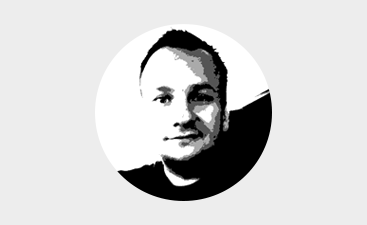
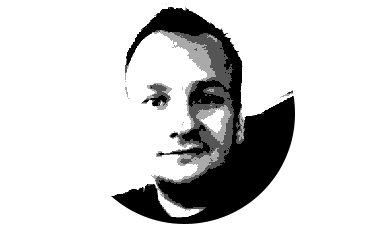
Additional components
More portfolio items, skills section and updates profile image

Changed region(s): [[0.2997, 0.0311, 0.8093, 0.9956]]

diff --git a/index.html b/index.html
@@ -15,13 +15,19 @@
       <ul>
         <li><a href="#">Home</a></li>
         <li><a href="#portfolio">Portfolio</a></li>
+        <li><a href="#skills">Skills</a></li>
         <li><a href="#contact">Contact</a></li>
       </ul>
     </nav>
 
     <header class="main-header clearfix">
       <img class="header-image" src="images/responsive-layout-profile.png" alt="Photo of Andy Stoica" />
-      <p>Hi! I'm a front end developer who loves responsive design and css. I recently finished learning front-end web development at Treehouse and am excited to put all my skills to use!</p>
+      <p>
+        Like every good story, mine started 30 years ago when I experienced computer generated graphics for the first time. It was a captivating moment that became an obsession and dominated my life ever since.
+      </p>
+      <p>
+        Humbled by daily technology advances, as my journey continues I feel priviledged to deliver my partners and clients the very best web technology has to offer.
+      </p>
     </header>
 
     <main class="main-content">
@@ -80,6 +86,57 @@
           </p>
           </a>
         </div>
+
+        <div class="portfolio-unit">
+          <a href="#">
+          <img src="images/portfolio-8.png" alt="Video channel" />
+          <h3>Youtube channel</h3>
+          <p>
+            Beutiful aerial imagery captured around the world mixed in with happy ambiental sountracks.
+          </p>
+          </a>
+        </div>
+        <div class="portfolio-unit">
+          <a href="#">
+          <img src="images/portfolio-7.png" alt="Multimedia" />
+          <h3>Multimedia</h3>
+          <p>
+            A picture can say a thousands words but a video can say more than words can ever describe.
+          </p>
+          </a>
+        </div>
+        <div class="portfolio-unit">
+          <a href="#">
+          <img src="images/portfolio-9.png" alt="Web App" />
+          <h3>Web App</h3>
+          <p>
+            Web app developed using cutting edge technology for the fastest growing tech enviroment.
+          </p>
+          </a>
+        </div>
+      </section>
+
+      <section class="skills-section clearfix" id="skills">
+        <h2>Skills</h2>
+        <p>
+          Mastering the art of building scallable web application and delivering beautifully crafted user interfaces are my ultimate goals. These are some of the areas of high interest:
+        </p>
+        <ul class="skill-set">
+          <li>HTML</li>
+          <li>CSS</li>
+          <li>SASS</li>
+          <li>JavaScript</li>
+          <li>JQuery</li>
+          <li>AngularJS</li>
+          <li>Node.js</li>
+          <li>MongoDB</li>
+          <li>PHP</li>
+          <li>MySQL</li>
+          <li>JAVA</li>
+        </ul>
+        <p>
+          <em>"Only one who devotes himself to a cause with his whole strength can be a true master. For this reason mastery demands all of a person"</em> - Albert Einstein
+        </p>
       </section>
 
       <section class="contact-section" id="contact">

diff --git a/styles/styles.css b/styles/styles.css
@@ -43,6 +43,7 @@ p {
 .main-navigation,
 .main-header,
 .portfolio-section,
+.skills-section,
 .contact-section {
   padding: 0 1rem;
   text-align: center;
@@ -51,6 +52,7 @@ p {
 @media (min-width: 768px) {
   .main-navigation,
   .main-header,
+  .skills-section,
   .contact-section {
     padding: 0 2rem;
   }
@@ -98,8 +100,13 @@ p {
   color: orange;
 }
 
+.main-header p {
+  margin: 0 2rem 1rem;
+}
+
 .header-image {
   max-width: 70%;
+  margin: 1rem auto;
 }
 
 @media (min-width: 768px) {
@@ -114,7 +121,7 @@ p {
   }
 
   .main-header {
-    margin: 3.5rem auto;
+    margin: 3.5rem auto 1.5rem;
     text-align: left;
     font-size: 1.2rem;
   }
@@ -122,7 +129,7 @@ p {
   .header-image {
     float: right;
     max-width: 40%;
-    margin-left: 2rem;
+    margin: 0 0 5rem 2rem;
   }
 }
 
@@ -144,6 +151,14 @@ p {
   .main-navigation a {
     padding-right: 0;
     padding-left: 1rem;
+  }
+
+  .main-header {
+      margin: 4rem auto 0;
+  }
+
+  .main-header p {
+    margin: 2rem 2rem 0;
   }
 }
 
@@ -187,6 +202,30 @@ p {
 .portfolio-unit img {
   margin-bottom: .5rem;
 }
+
+.skills-section {
+  background: #fff;
+  padding-bottom: 2rem;
+}
+
+.skill-set {
+  list-style: none;
+  padding: 0;
+  margin: 2rem auto;
+}
+
+.skill-set li {
+  display: inline-block;
+  background: orange;
+  color: white;
+  padding: 4px 12px;
+  margin: 3px;
+}
+
+.skill-set li:nth-of-type(2n+1) {
+  background: olive;
+}
+
 
 .contact-section h2 {
   padding: 3rem 0 2rem 0;
@@ -234,6 +273,8 @@ p {
     margin-top: 3rem;
   }
 
+  .skills-section p,
+  .skills-section ul,
   .contact-section p {
     font-size: 1.2rem;
     max-width: 550px;
@@ -254,6 +295,11 @@ p {
 
   .portfolio-unit:nth-of-type(3n+0) {
     margin-right: 0;
+  }
+
+  .skills-section p,
+  .skills-section ul {
+    max-width: 750px;
   }
 
 }
